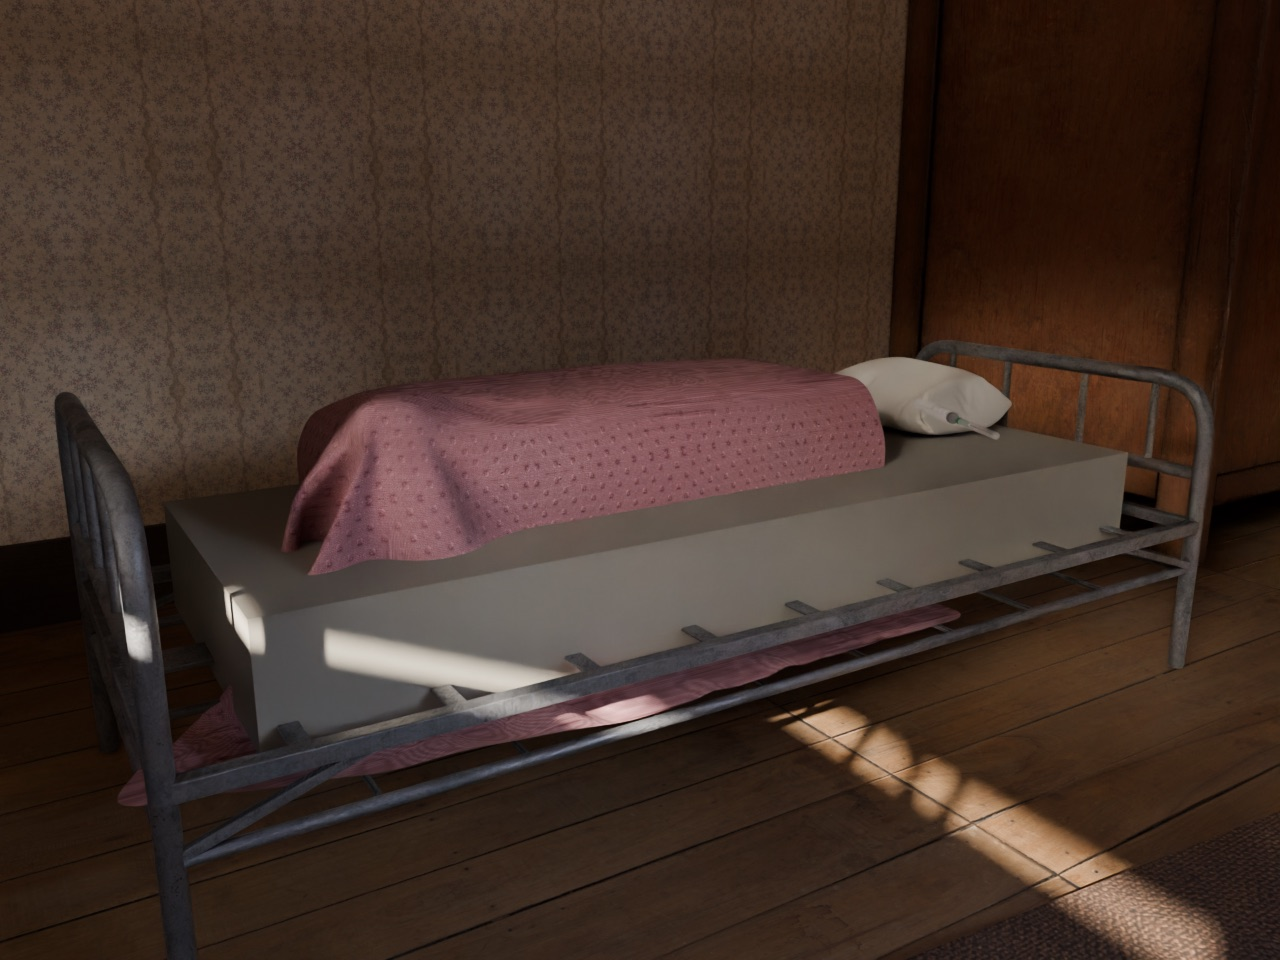
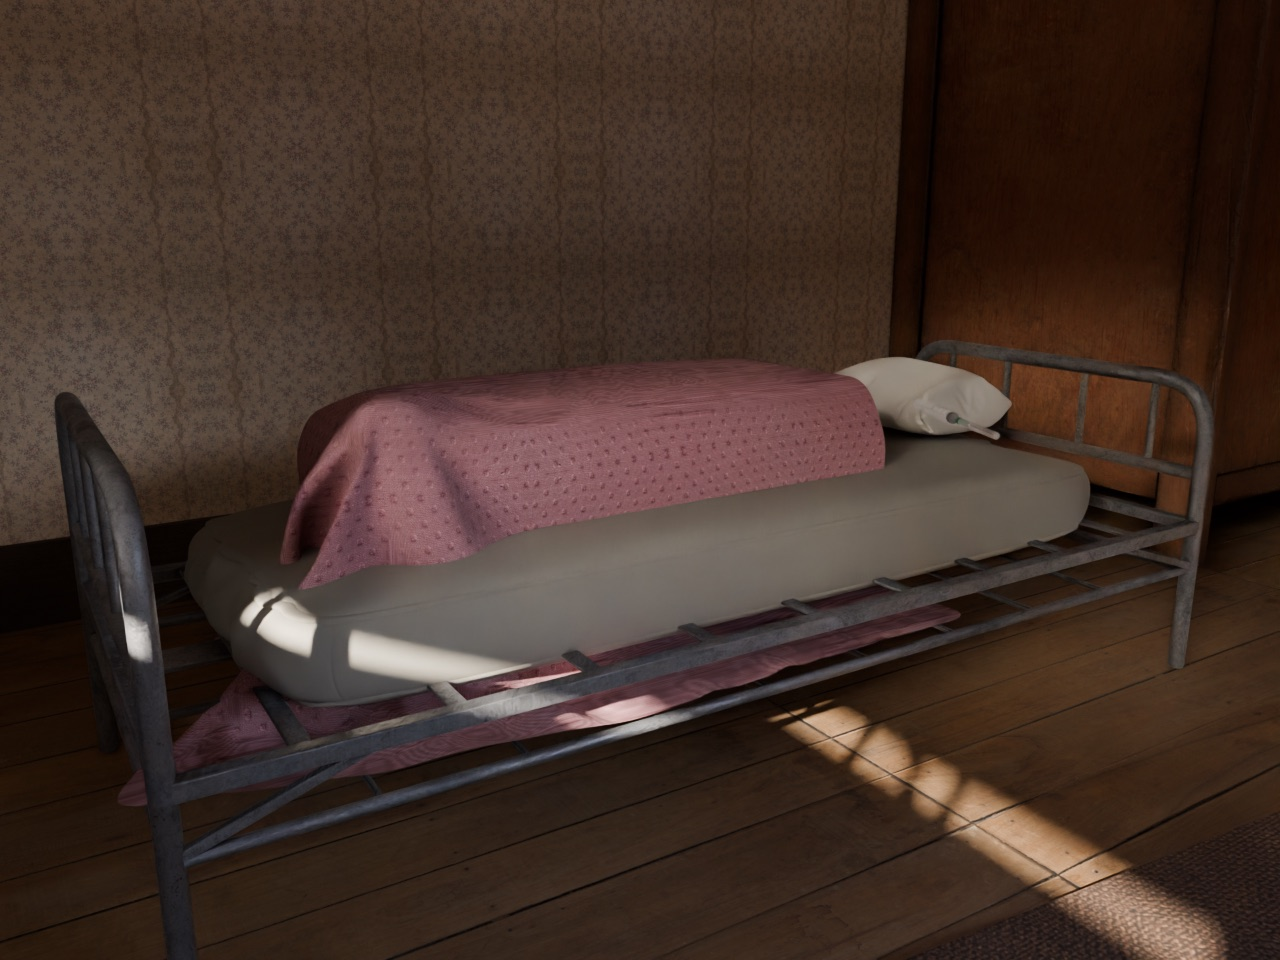
The mattress is sourced, and the grey box is gone
Sketchfab's quilted single (Miguel Angel, CC-BY), scaled to the frame's interior
on both axes independently and retextured to ticking. Its top lands on exactly
the number the box's did, so the spread and the pillow anchor off the same
measurement and neither moved.

This is what should have happened four passes ago. A box under a draped spread
is a box under a draped spread, and Crystal lies on this bed at runtime: a grey
slab with a hard edge is what she would be staged against, and every centimetre
of it would be wrong forever once the room is baked and exported.

One more silent failure caught on the way, the same class as the UV pack. The
bake collected the mattress by name prefix, and the sourced one is an empty
called `mattress` with children called `Box001_03 - Default_0`. So the empty was
skipped for not being a mesh, the children were skipped for not matching, and
the first rebake came back with 63 objects instead of 65 and an unlit mattress.
It is collected through its holder now, like every other sourced asset.

Surfaces as built, for step 7:

    mattress top        0.4651
    spread over the bed 0.4831 median
    pillow underside    0.4751
    room1a.ts           MATTRESS_TOP 0.56

Crystal goes on the spread, so 0.4831 is her number, not 0.4651 and not 0.56.

Rebaked at 256. Credits updated.

diff --git a/tools/blender/build_room1a.py b/tools/blender/build_room1a.py
@@ -521,6 +521,56 @@ FURNITURE = {
 }
 
 
+def _place_mattress(lo, hi, springs, top, ticking):
+    """
+    The mattress, sourced.
+
+    It was a box. A box under a draped spread is a box under a draped spread,
+    and worse, Crystal lies on this bed at runtime: a grey slab with a hard edge
+    is the thing she would be staged against, and every centimetre of it would
+    be wrong forever once the room is baked and exported.
+
+    Sketchfab's quilted single, retextured to ticking. Scaled to the frame's
+    interior on both axes independently, because a mattress is cut to fit a bed
+    and this one came off a wider one. Its top lands exactly where the box's did,
+    so the spread and the pillow anchor off the same number as before.
+    """
+    before = {o.name for o in bpy.data.objects}
+    bpy.ops.import_scene.gltf(filepath=f"{SOURCED}/mattress.glb")
+    new = [o for o in bpy.data.objects if o.name not in before]
+
+    holder = bpy.data.objects.new("mattress", None)
+    bpy.context.scene.collection.objects.link(holder)
+    for r in [o for o in new if o.parent is None]:
+        r.parent = holder
+    bpy.context.view_layer.update()
+
+    want_x = (hi.x - lo.x) - 0.20
+    want_y = (hi.y - lo.y) - 0.28
+    want_z = top - springs
+    size = world_bounds(new)[1] - world_bounds(new)[0]
+    holder.scale = (
+        want_x / size.x if size.x > 1e-6 else 1.0,
+        want_y / size.y if size.y > 1e-6 else 1.0,
+        want_z / size.z if size.z > 1e-6 else 1.0,
+    )
+    bpy.context.view_layer.update()
+
+    mlo, mhi = world_bounds(new)
+    mid = (mlo + mhi) / 2
+    holder.location = (
+        holder.location.x + ((lo.x + hi.x) / 2 - mid.x),
+        holder.location.y + ((lo.y + hi.y) / 2 - mid.y),
+        holder.location.z + (springs - mlo.z),
+    )
+    bpy.context.view_layer.update()
+
+    for ob in new:
+        if ob.type == "MESH":
+            assign(ob, ticking)
+    return holder
+
+
 def build_bedding(bed_holder, spread, linen, ticking):
     """
     The mattress, the spread and the pillow, measured rather than eyeballed.
@@ -555,13 +605,8 @@ def build_bedding(bed_holder, spread, linen, ticking):
     springs = lo.z + (hi.z - lo.z) * 0.42
     top = springs + 0.185
 
-    mattress = cube(
-        "mattress",
-        (lo.x + 0.10, lo.y + 0.14, springs),
-        (hi.x - 0.10, hi.y - 0.14, top),
-    )
-    assign(mattress, ticking)
-    mlo, mhi = world_bounds([mattress])
+    mattress = _place_mattress(lo, hi, springs, top, ticking)
+    mlo, mhi = world_bounds(mattress.children_recursive)
 
     before = {o.name for o in bpy.data.objects}
     bpy.ops.import_scene.gltf(filepath=f"{SOURCED}/bedding.glb")

diff --git a/tools/blender/bake_room1a.py b/tools/blender/bake_room1a.py
@@ -57,12 +57,12 @@ GROUPS = (
     ("joinery", ("sash_", "front_", "sill", "door", "verandahDoor"), ()),
     (
         "furniture",
-        ("mattress", "rug"),
+        ("rug",),
         # Sourced imports keep whatever the author called their meshes, so they
         # are collected through the empty each one is parented to and not by
         # name. `Loft037__0` is a chair leg and nothing about it says so.
         ("wardrobe", "bed", "dresser", "bedside", "chair", "chair2", "bedding",
-         "frame", "magazines", "lighter", "syringe"),
+         "mattress", "frame", "magazines", "lighter", "syringe"),
     ),
 )
 

diff --git a/docs/CREDITS.md b/docs/CREDITS.md
@@ -47,6 +47,7 @@ asset. What the game ships is the baked, Meshopt-compressed room out of step 6.
 | `magazines` | [Newspaper Stack](https://sketchfab.com/models/c4311a0b918643af97904e10c7a34efc) | karlwirbelwind | CC-BY 4.0 | `c4311a0b918643af97904e10c7a34efc` |
 | `syringe` | [Disposable Syringe 2ml Set](https://sketchfab.com/models/4cdb3198b4284144b9722fe4cde5462b) | joezeffdesign | CC-BY 4.0 | `4cdb3198b4284144b9722fe4cde5462b` |
 | `bedding` | [Messy Bed](https://sketchfab.com/models/aebc9bae5a4d459494d1e5de76658d5a) | lucaboechat | CC-BY 4.0 | `aebc9bae5a4d459494d1e5de76658d5a` |
+| `mattress` | [Mattress](https://sketchfab.com/models/6a526b42e6a34a4ba12136a40d9a686b) | Miguel Ángel | CC-BY 4.0 | `6a526b42e6a34a4ba12136a40d9a686b` |
 
 ### What each one is, and what it is for
 
@@ -64,6 +65,7 @@ asset. What the game ships is the baked, Meshopt-compressed room out of step 6.
 | `magazines` | 2.1k | millimetres | Stack of printed matter. Carries the authored `magazines` texture |
 | `syringe` | 15.5k | centimetres | Disposable plastic, not a glass and steel antique. 1994 |
 | `bedding` | 33k | source units | The blanket and the pillow only. Its timber frame was thrown away and it goes on the sourced iron one. Retextured to dusty rose |
+| `mattress` | 34k | centimetres | Quilted, rounded edges. Scaled to the frame's interior on both axes and retextured to ticking. It replaced a grey box |
 
 **Nothing is at a consistent scale and that is normal for Sketchfab.** Three of
 them are in metres, the rest are in inches, centimetres or millimetres. Every
